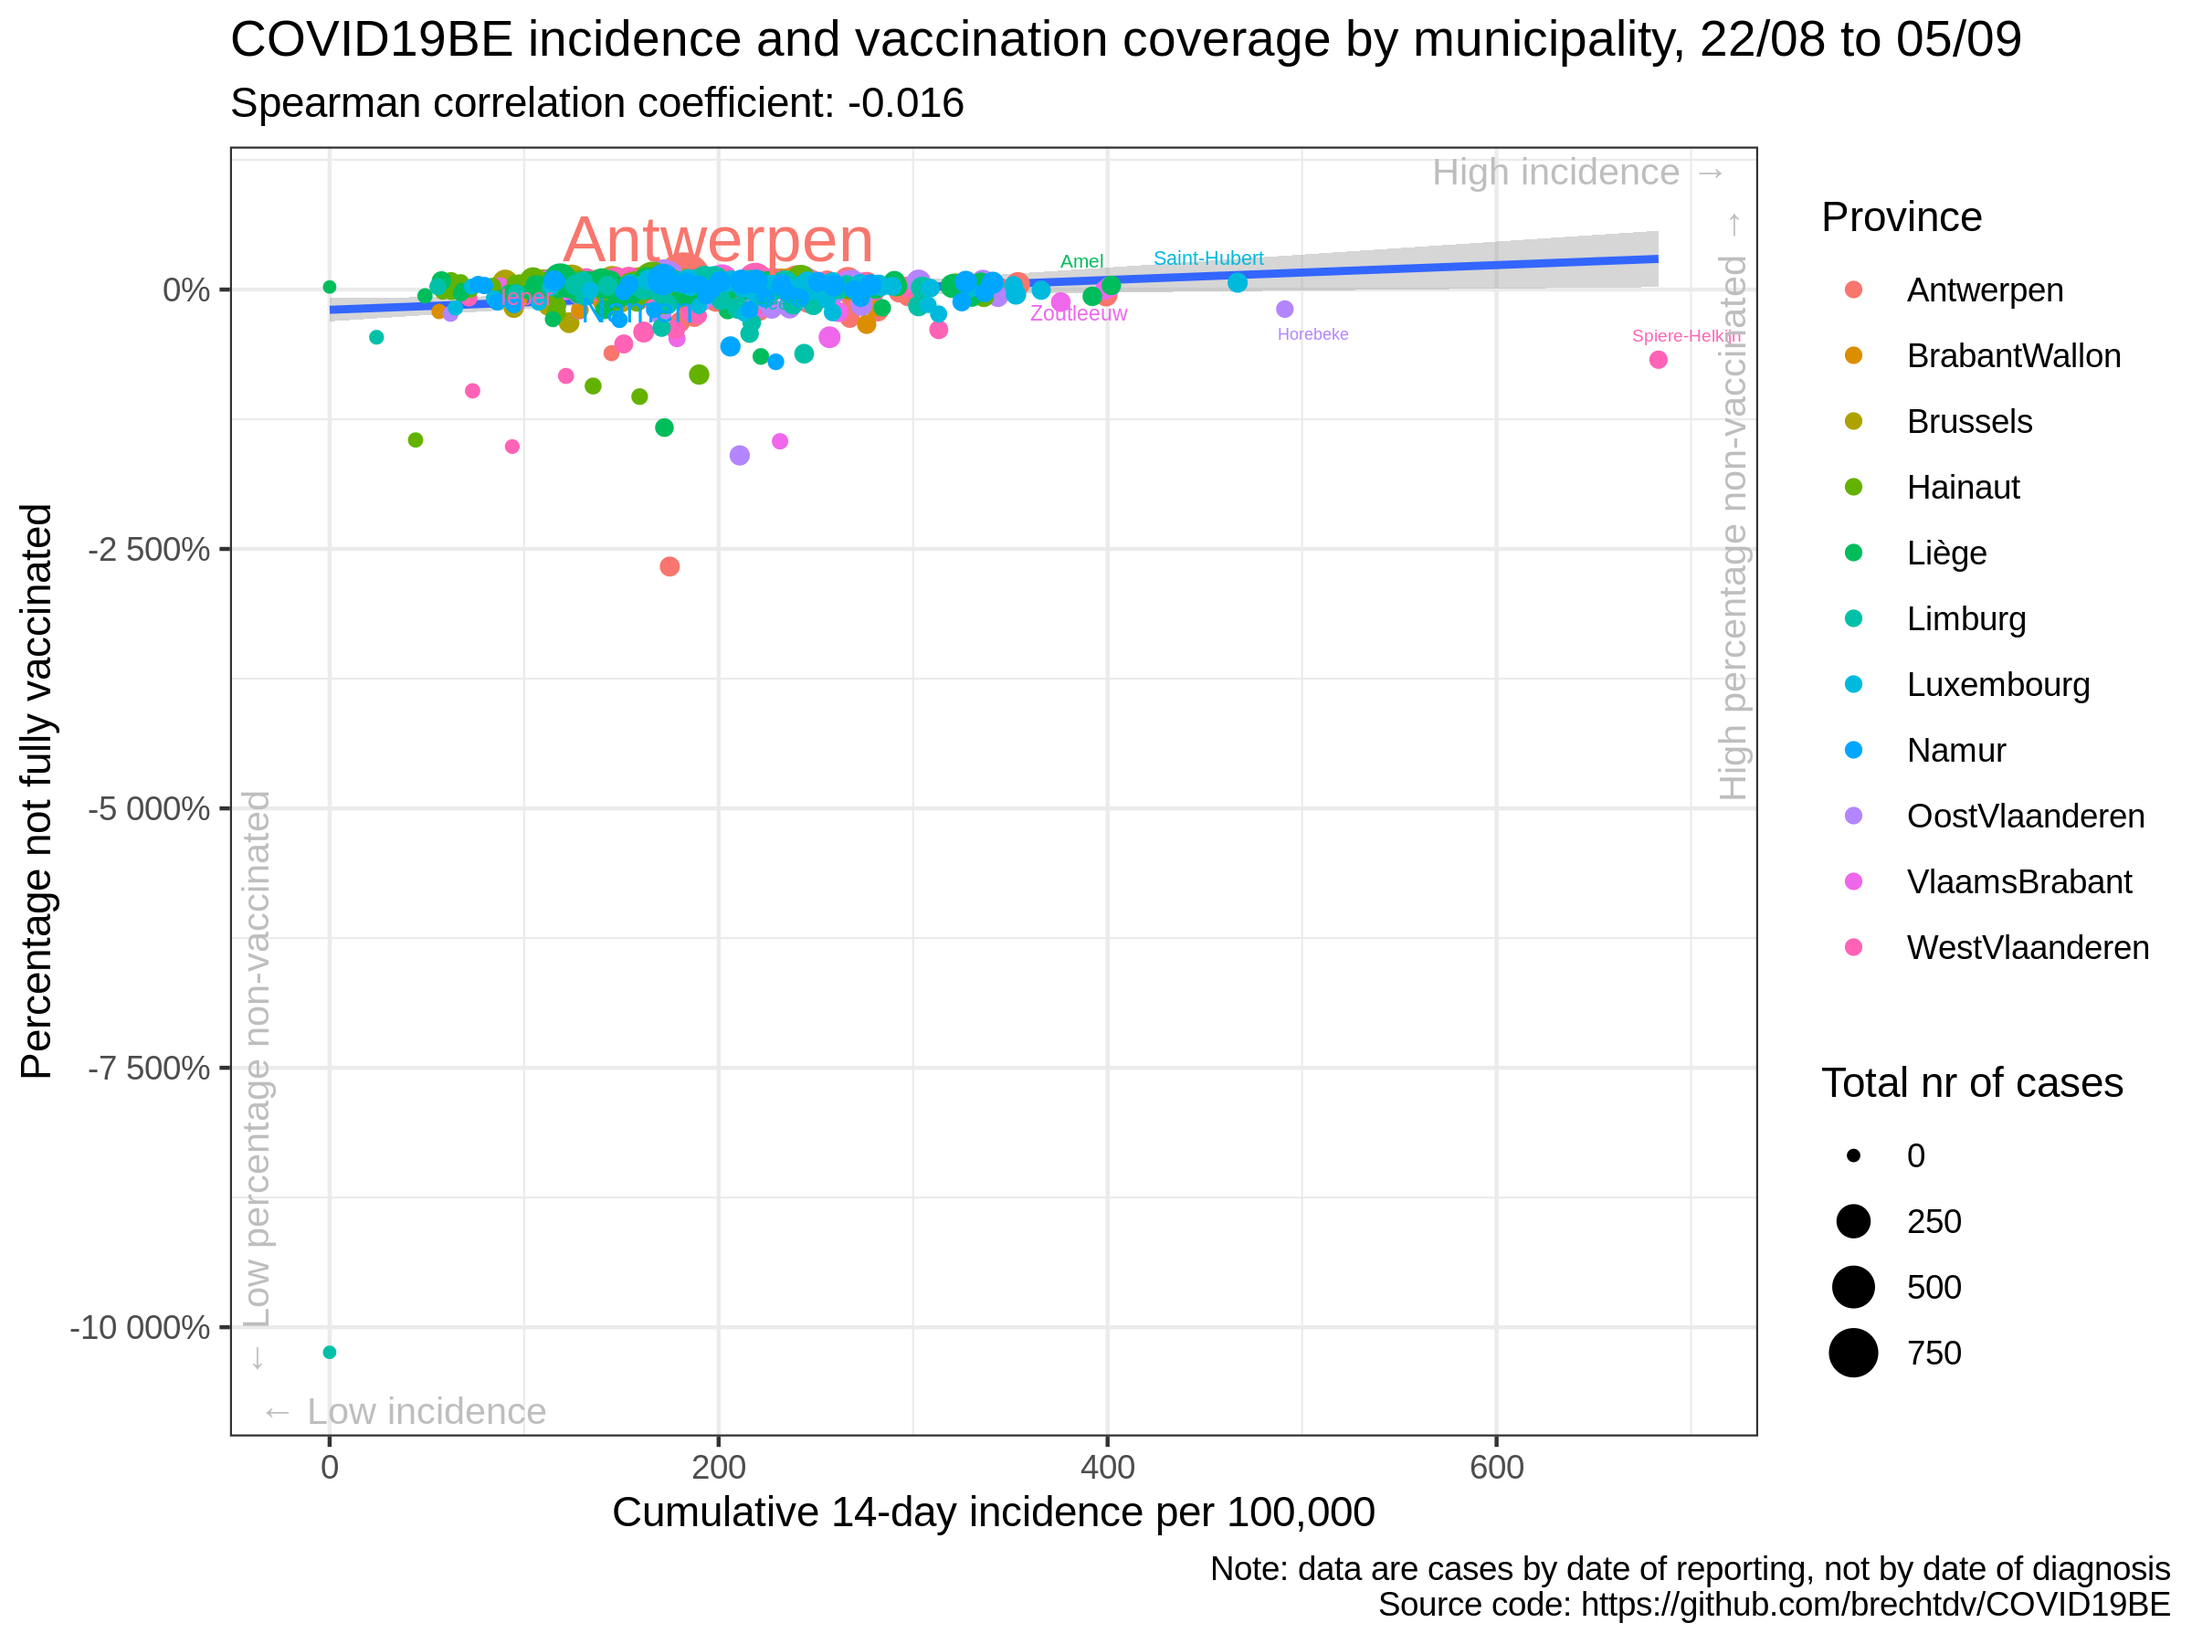
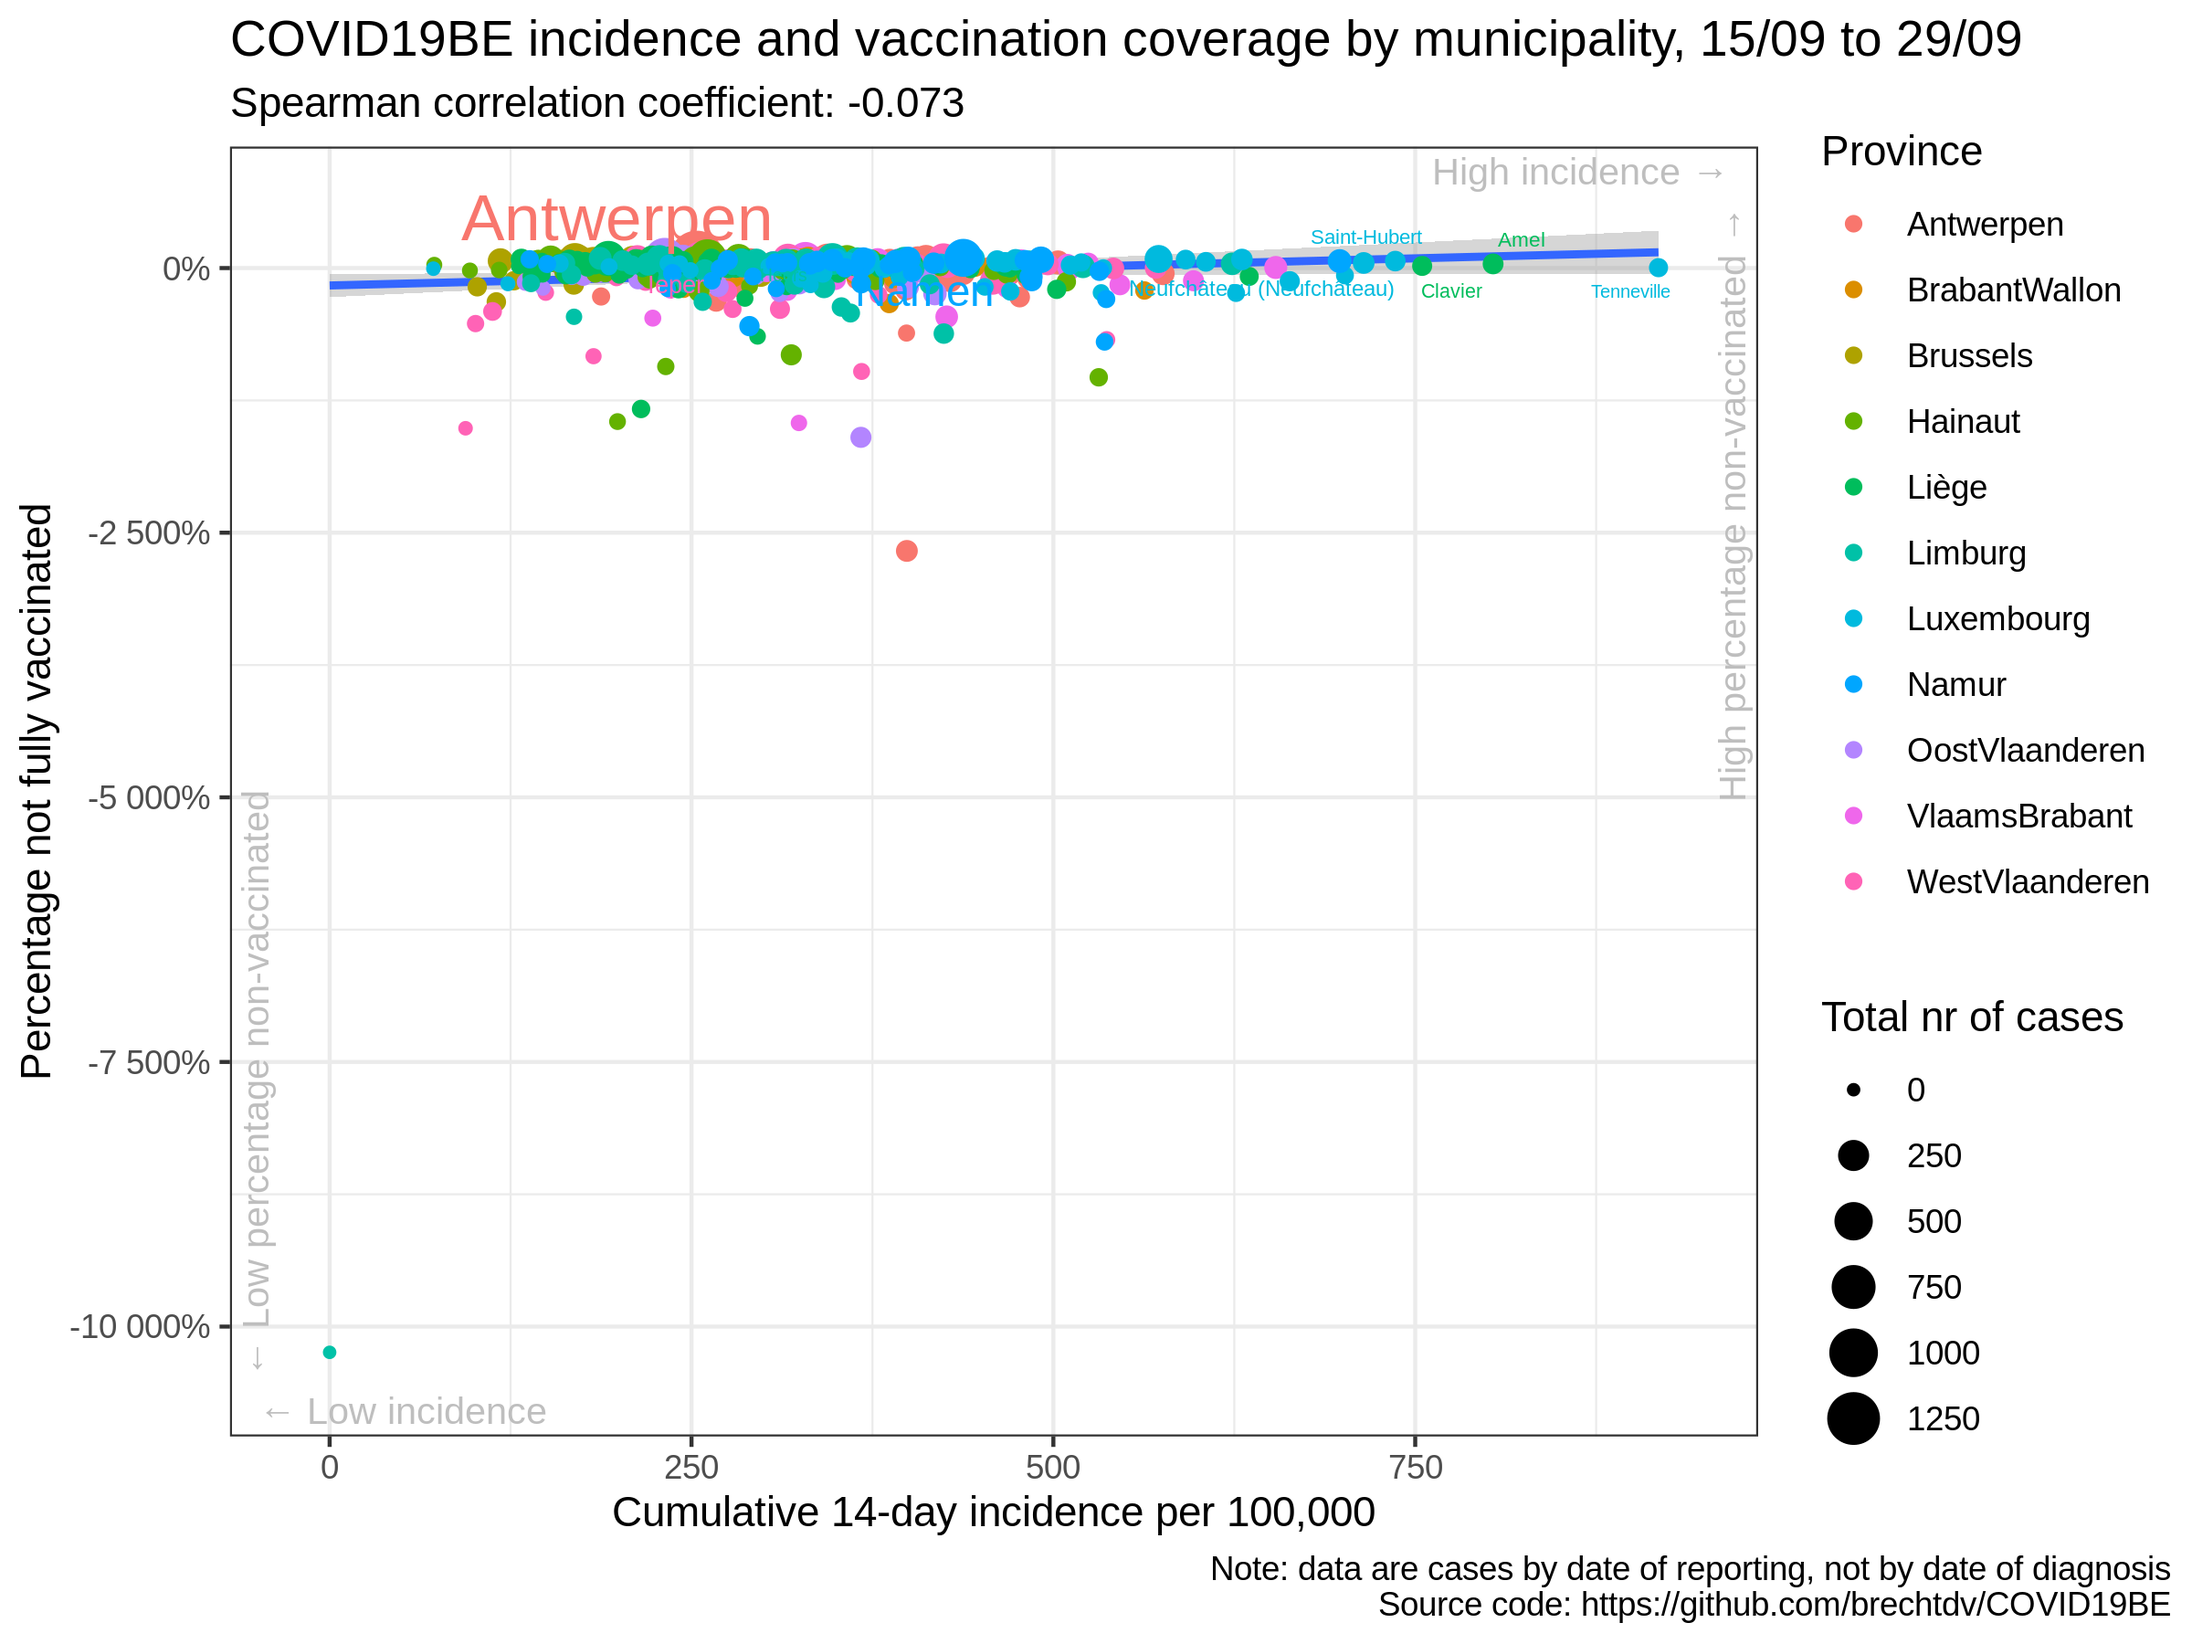
update situation

diff --git a/vaccination/README.md b/vaccination/README.md
@@ -17,35 +17,35 @@
 
 |                | estimate.rho | p.value |
 | :------------- | -----------: | ------: |
-| Antwerpen      |        0.019 |   0.876 |
-| BrabantWallon  |        0.274 |   0.167 |
-| Brussels       |        0.042 |   0.865 |
-| Hainaut        |        0.067 |   0.586 |
-| Liège          |        0.012 |   0.911 |
-| Limburg        |      \-0.052 |   0.742 |
-| Luxembourg     |      \-0.111 |   0.474 |
-| Namur          |      \-0.021 |   0.904 |
-| OostVlaanderen |      \-0.035 |   0.788 |
-| VlaamsBrabant  |      \-0.111 |   0.379 |
-| WestVlaanderen |        0.054 |   0.671 |
-| Belgium        |      \-0.016 |   0.700 |
+| Antwerpen      |      \-0.182 |   0.135 |
+| BrabantWallon  |      \-0.164 |   0.411 |
+| Brussels       |        0.144 |   0.556 |
+| Hainaut        |      \-0.171 |   0.159 |
+| Liège          |      \-0.206 |   0.060 |
+| Limburg        |        0.022 |   0.889 |
+| Luxembourg     |        0.153 |   0.319 |
+| Namur          |        0.023 |   0.890 |
+| OostVlaanderen |      \-0.013 |   0.923 |
+| VlaamsBrabant  |      \-0.141 |   0.260 |
+| WestVlaanderen |        0.092 |   0.469 |
+| Belgium        |      \-0.073 |   0.078 |
 
 ### Correlation cumulative incidence vs booster rate
 
 |                | estimate.rho | p.value |
 | :------------- | -----------: | ------: |
-| Antwerpen      |        0.002 |   0.987 |
-| BrabantWallon  |        0.285 |   0.149 |
-| Brussels       |      \-0.007 |   0.980 |
-| Hainaut        |        0.054 |   0.657 |
-| Liège          |        0.023 |   0.838 |
-| Limburg        |      \-0.052 |   0.745 |
-| Luxembourg     |      \-0.095 |   0.539 |
-| Namur          |      \-0.025 |   0.884 |
-| OostVlaanderen |      \-0.028 |   0.833 |
-| VlaamsBrabant  |      \-0.133 |   0.291 |
-| WestVlaanderen |        0.058 |   0.650 |
-| Belgium        |      \-0.029 |   0.483 |
+| Antwerpen      |      \-0.176 |   0.147 |
+| BrabantWallon  |      \-0.171 |   0.392 |
+| Brussels       |        0.079 |   0.748 |
+| Hainaut        |      \-0.194 |   0.111 |
+| Liège          |      \-0.198 |   0.071 |
+| Limburg        |        0.020 |   0.899 |
+| Luxembourg     |        0.153 |   0.319 |
+| Namur          |        0.032 |   0.848 |
+| OostVlaanderen |      \-0.008 |   0.949 |
+| VlaamsBrabant  |      \-0.148 |   0.238 |
+| WestVlaanderen |        0.091 |   0.472 |
+| Belgium        |      \-0.083 |   0.044 |
 
 ### Data source
 
